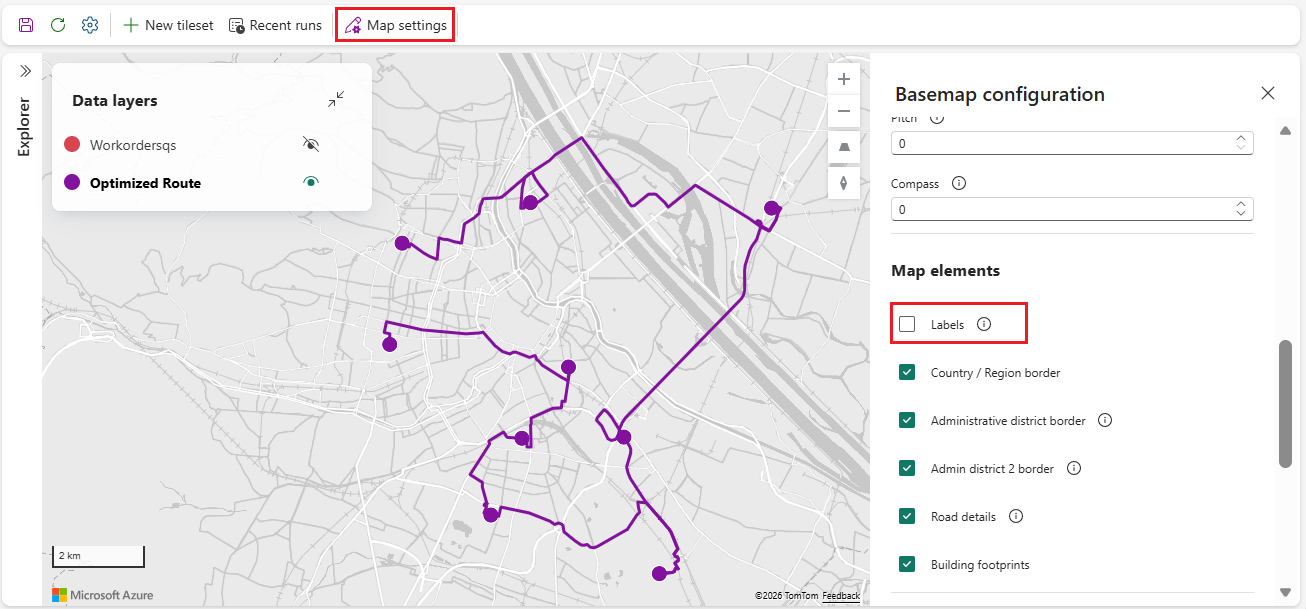
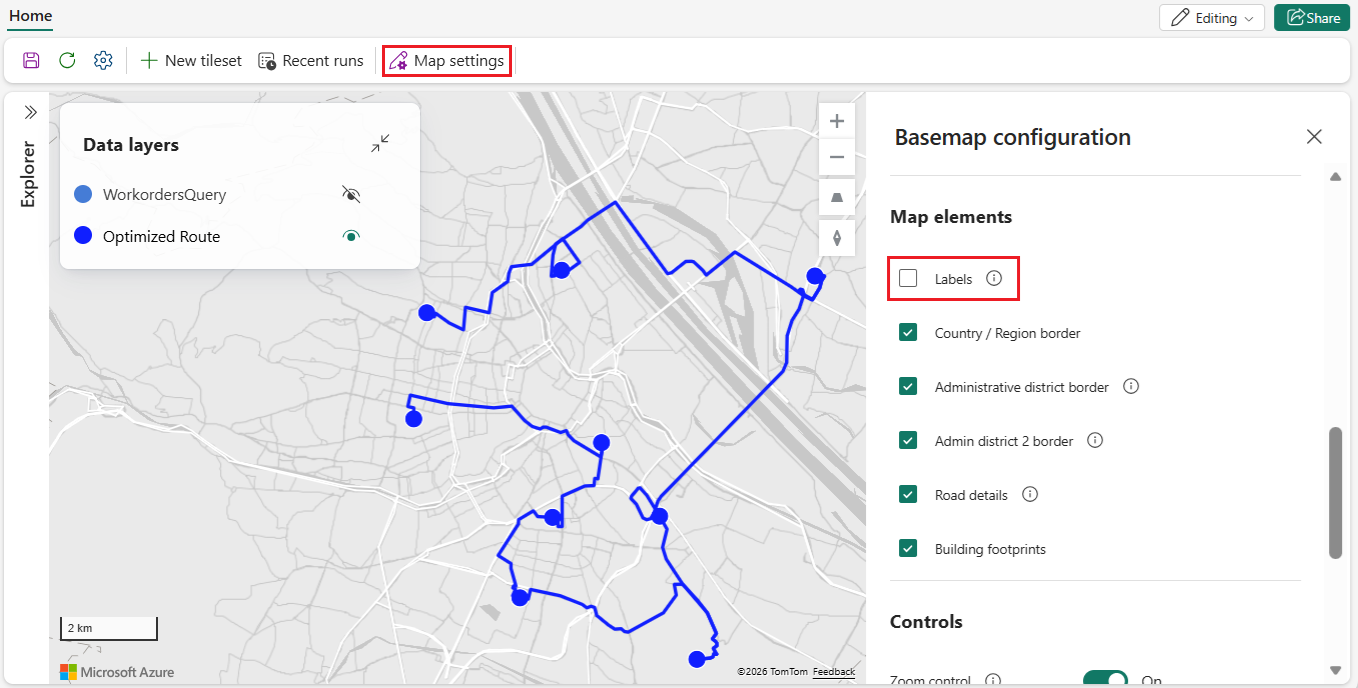
Updated naming convention and most images to reflect new names etc.

diff --git a/docs/real-time-intelligence/map/tutorial-real-time-work-order-routing-application.md b/docs/real-time-intelligence/map/tutorial-real-time-work-order-routing-application.md
@@ -118,19 +118,19 @@ By ingesting eventstream data into an eventhouse, you make streaming events avai
 
 1. The **Eventhouse destination configuration** pane appear on the right side of the screen. Fill out the details requested as follows, then select **Save**:
     1. **Data ingestion mode**: Set to **Event processing before ingestion**.
-    1. **Destination name**: Set to **Workorders-Eventhouse**.
+    1. **Destination name**: Set to **WorkordersEventhouse**.
     1. **Workspace**: A dropdown showing the name of your workspace.
-    1. **Eventhouse**: Select **Create new** and create an eventhouse named **Workorders-Eventhouse**.
-    1. **KQL Database**: Select **Workorders-DB**.
+    1. **Eventhouse**: Select **Create new** and create an eventhouse named **WorkordersEventhouse**.
+    1. **KQL Database**: Select **WorkordersEventhouse**.
     1. **KQL Destination table**: Select the **Create new** link and create a new table named **Workorders-tbl**.
     1. **Input data format**: Select **Json**.
     1. **Activate ingestion after adding the data source**: check the checkbox.
 
-    :::image type="content" source="media/tutorials/real-time-work-order-routing-application/add-destination-eventhouse.png" alt-text="A screenshot showing the Eventhouse destination configuration pane showing Data ingestion mode with Event processing before ingestion selected, Destination name set to Workorders-Eventhouse, Workspace dropdown showing My workspace, Eventhouse dropdown showing Workorders-Eventhouse with Create new link, KQL database dropdown showing Workorders-DB, KQL Destination table dropdown showing New Workorders-tbl with Create new link, Activate ingestion after adding the data source checkbox checked, and a green Save button at the bottom.":::
+    :::image type="content" source="media/tutorials/real-time-work-order-routing-application/add-destination-eventhouse.png" alt-text="A screenshot showing the Eventhouse destination configuration pane showing Data ingestion mode with Event processing before ingestion selected, Destination name set to WorkordersEventhouse, Workspace dropdown showing My workspace, Eventhouse dropdown showing WorkordersEventhouse with Create new link, KQL database dropdown showing WorkordersEventhouse, KQL Destination table dropdown showing New Workorders-tbl with Create new link, Activate ingestion after adding the data source checkbox checked, and a green Save button at the bottom.":::
 
 1. Once the eventhouse has been added as a destination, select **Publish** to publish your new eventstream.
 
-    :::image type="content" source="media/tutorials/real-time-work-order-routing-application/publish-event-stream.png" lightbox="media/tutorials/real-time-work-order-routing-application/publish-event-stream.png" alt-text="A screenshot showing the Eventstream designer showing a flow with CustomEndpoint-Workorders source connected to a Workorders-stream node, which connects to Workorders-Eventhouse destination. The Publish button is highlighted in the top right corner of the toolbar. An Edit mode banner indicates changes go live once published.":::
+    :::image type="content" source="media/tutorials/real-time-work-order-routing-application/publish-event-stream.png" lightbox="media/tutorials/real-time-work-order-routing-application/publish-event-stream.png" alt-text="A screenshot showing the Eventstream designer showing a flow with CustomEndpoint-Workorders source connected to a Workorders-stream node, which connects to WorkordersEventhouse destination. The Publish button is highlighted in the top right corner of the toolbar. An Edit mode banner indicates changes go live once published.":::
 
 ### Get required SAS key authentication keys
 
@@ -217,22 +217,19 @@ Create a notebook with code to import the work order location file from your lak
 1. Add the values for the variables **CONNECTION_STR** and **EVENT_HUB_NAME** obtained in the previous section titled [Get required SAS key authentication keys](#get-required-sas-key-authentication-keys).
 1. Run the notebook code. This will create the *Workorders* table in the KQL database in the *WorkordersEventhouse* eventhouse.
 
-:::image type="content" source="media/tutorials/real-time-work-order-routing-application/work-order-table.png" alt-text="A screenshot of the Microsoft Fabric Eventhouse interface displaying the Workorders table with a Data preview tab selected. The left navigation panel shows the KQL databases tree with WorkordersEventhouse expanded, containing Tables with the Workorders table selected. The data preview shows nine rows of work order records with columns including WorkorderID, Latitude, Longitude, EventProcessedUtc timestamps, PartitionId, EventEnqueuedUtc timestamps, and IngestionTime values.":::
+:::image type="content" source="media/tutorials/real-time-work-order-routing-application/work-order-table.png" lightbox="media/tutorials/real-time-work-order-routing-application/work-order-table.png" alt-text="A screenshot of the Microsoft Fabric Eventhouse interface displaying the Workorders table with a Data preview tab selected. The left navigation panel shows the KQL databases tree with WorkordersEventhouse expanded, containing Tables with the Workorders table selected. The data preview shows nine rows of work order records with columns including WorkorderID, Latitude, Longitude, EventProcessedUtc timestamps, PartitionId, EventEnqueuedUtc timestamps, and IngestionTime values.":::
 
 ## Create a KQL queryset and add it as a map layer
 
-In this section, you create a KQL queryset that retrieves current work order location data from your eventhouse, then uses that queryset as a data source for a Fabric Maps map. The queryset enables the map to display active work orders as a layer, providing a visual view of jobs that need to be planned and assigned to field crews.
+In this section, you create a KQL queryset that retrieves current work order location data from the *Workorders* table in your eventhouse, then uses that queryset as a data source for a Fabric Maps map. The queryset enables the map to display active work orders as a layer, providing a visual view of jobs that need to be planned and assigned to field crews.
 
 ### Create a KQL queryset
 
 From your eventhouse (KQL database):
 
-1. Select the KQL database **Workorders-DB**.
-1. Select **KQL queryset** from the menu bar.
-1. Name the queryset **Workorder-QS** then select **Create**.
-
-    :::image type="content" source="media/tutorials/real-time-work-order-routing-application/new-kql-queryset.png" alt-text="A screenshot of the New KQL Queryset dialog box in Microsoft Fabric with a Name field containing Workorders-QS, a Location dropdown set to My workspace with a folder icon, and Create and Cancel buttons at the bottom right with the Create button highlighted by a red border indicating it should be selected.  In the background, the Workorders-DB database is visible in the left navigation panel under KQL databases, and the KQL Queryset button is highlighted in the top menu bar.":::
-
+1. Select **WorkordersEventhouse_queryset** from within the KQL database.
+1. Select **+** from the queries menu bar to create a new query.
+1. When the new query is created, it is automatically named *WorkordersEventhouse*, select the pencil icon to edit the name, and rename it to **WorkordersQuery**.
 1. Paste the following KQL query into the editor.
 
     ```
@@ -240,11 +237,11 @@ From your eventhouse (KQL database):
     | project Latitude, Longitude, WorkorderID 
     ```
 
-1. Select the *pencil edit icon* in the tab titled **Tab** and rename it to **Workorders-QS**.
-1. Select **Run** to verify that the query returns the work order data with location fields.
-1. Select the **Save** button in the upper left corner to save the queryset.
+1. Select the *pencil edit icon* in the tab titled **Tab** and rename it to **WorkordersQuery**.
 
-:::image type="content" source="media/tutorials/real-time-work-order-routing-application/save-kql-queryset.png" alt-text="A screenshot of the Microsoft Fabric KQL queryset editor showing the Home and Help menu tabs at the top. A red rectangle highlights the Save button in the upper left corner next to the Add data source and Copilot buttons. The Workorders-QS tab is visible with a pencil edit icon, which is also highlighted with a red rectangle. The Explorer pane on the left displays a Search field and shows Workorders-DB with a Workorders table underneath. The query editor panel shows three lines of KQL code with line 1 containing Workorders and line 2 containing project Latitude comma Longitude comma WorkorderID. The results table displays columns for Latitude Longitude and WorkorderID with sample data including coordinates.":::
+:::image type="content" source="media/tutorials/real-time-work-order-routing-application/new-kql-queryset.png" alt-text="A screenshot of the Microsoft Fabric KQL queryset interface showing the WorkordersEventhouse database selected in the left Explorer pane under KQL databases with WorkordersEventhouse_queryset expanded to reveal the Workorders table. The main query editor displays a new tab highlighted with a red rectangle containing a query. A second red rectangle highlights the WorkordersEventhouse_queryset item in the left navigation panel. The query window shows two lines of KQL code with Workorders on line 1 and project Latitude comma Longitude comma WorkorderID on line 2.":::
+
+1. Select **Run** to verify that the query returns the work order data with location fields.
 
 This queryset functions as a reusable data source for a Fabric Maps map data layer, which is demonstrated in the next section.
 
@@ -256,7 +253,7 @@ In this section, you create a Fabric Maps map and use the previously created KQL
 
 1. From your workspace, select **New item**.
 1. In the **New item** panel, enter **map** into the search field, and select **Map (preview)**.
-1. In the **New Map** dialog, enter **Work Orders** in the **Name** field and select **Create**.
+1. In the **New Map** dialog, enter **WorkordersMap** in the **Name** field and select **Create**.
 
 ### Add eventhouse to map
 
@@ -264,39 +261,39 @@ In this section, you create a Fabric Maps map and use the previously created KQL
 
     :::image type="content" source="media/tutorials/real-time-work-order-routing-application/add-eventhouse-map.png" alt-text="A screenshot showing the Microsoft Fabric Maps interface with the Explorer pane on the left with Lakehouse and Eventhouse tabs. The Eventhouse tab is selected and highlighted with a red box. Below it, the Add data items button is also highlighted with a red box. The main area displays the default world map in the map area.":::
 
-1. From the **OneLake** catalog, select the eventhouse **Workorders-Eventhouse** that you created previously, then select **Connect**.
+1. From the **OneLake** catalog, select the eventhouse **WorkordersEventhouse** that you created previously, then select **Connect**.
 
 > [!TIP]
 > If you get an error such as *The KQL database has a protected label that restricts access. Please contact your database owner for assistance.* Check the sensitivity label on your KQL database, as it may be restricting access. For more information, see [Apply sensitivity labels to Fabric items](/fabric/fundamentals/apply-sensitivity-labels).
 
 ### Show queryset on map
 
-1. In the **Explorer** pane in your new map, select the eventhouse **Workorders-Eventhouse** that you added in the previous step.
-1. Navigate to the KQL query *Workorders-QS*, and select the ellipse (...) to show the popup menu.
+1. In the **Explorer** pane in your new map, select the eventhouse **WorkordersEventhouse** that you added in the previous step.
+1. Navigate to the KQL query *WorkordersQuery*, and select the ellipse (...) to show the popup menu.
 1. Select **Show on map** from the popup menu.
 
-    :::image type="content" source="media/tutorials/real-time-work-order-routing-application/show-on-map.png" alt-text="A screenshot of the Microsoft Fabric Maps Explorer panel displaying a hierarchical tree structure with KQL database section expanded. The tree shows Workorders-DB containing Workorders-Event table and Workorders-QS queryset. An ellipsis menu is open next to Workorders-QS revealing options including Show on map highlighted with a red rectangle border.":::
+    :::image type="content" source="media/tutorials/real-time-work-order-routing-application/show-on-map.png" alt-text="A screenshot of the Microsoft Fabric Maps Explorer panel displaying a hierarchical tree structure with KQL database section expanded. The tree shows WorkordersEventhouse containing Workorders-Event table and WorkordersQuery queryset. An ellipsis menu is open next to WorkordersQuery revealing options including Show on map highlighted with a red rectangle border.":::
 
 1. The **View Eventhouse data on map** dialog appears with **Preview data** selected. No changes are required. Ensure it's correct, then select **Next**
 
-    :::image type="content" source="media/tutorials/real-time-work-order-routing-application/preview-data.png" alt-text="A screenshot of the View Eventhouse data on map dialog in Microsoft Fabric showing three steps on the left: Preview data with a green checkmark, Set geometry, and data refresh interval, and Review and add to map. The main panel displays Visualize spatial data over time on a map with a dropdown to Select a KQL query to visualize set to Workorders-QS. Below is a Query result preview table with columns for Latitude, Longitude, and WorkorderID showing nine work order records with coordinates in the Vienna Austria area. Back and Next buttons appear at the bottom right.":::
+    :::image type="content" source="media/tutorials/real-time-work-order-routing-application/preview-data.png" alt-text="A screenshot of the View Eventhouse data on map dialog in Microsoft Fabric showing three steps on the left: Preview data with a green checkmark, Set geometry, and data refresh interval, and Review and add to map. The main panel displays Visualize spatial data over time on a map with a dropdown to Select a KQL query to visualize set to WorkordersQuery. Below is a Query result preview table with columns for Latitude, Longitude, and WorkorderID showing nine work order records with coordinates in the Vienna Austria area. Back and Next buttons appear at the bottom right.":::
 
 1. In the **Set geometry and data refresh interval** step, set the fields as follows, then select **Next**:
-    * **Data layer Name**: Workorders-QS
+    * **Data layer Name**: WorkordersQuery
     * **Geometry column location**: Latitude and longitude data locate on separate columns
     * **Latitude column**: Latitude
     * **Longitude column**: Longitude
     * **Data refresh interval**: 5 minutes
 
-        :::image type="content" source="media/tutorials/real-time-work-order-routing-application/set-geometry.png" alt-text="A screenshot of the Microsoft Fabric dialog titled View Eventhouse data on map showing the Set geometry and data refresh interval configuration step. A left sidebar displays three workflow steps with checkmarks indicating Preview data is completed and Set geometry and data refresh interval is currently active. The main panel contains a Data layer section with a Name field containing Workorders-QS, followed by a Geometry data column section with three dropdowns: Geometry column location set to Latitude and longitude data locate on separate columns, Latitude column set to Latitude, and Longitude column set to Longitude. Below is a Data refresh section with a Data refresh interval dropdown set to 5 minutes. Back and Next buttons appear at the bottom right corner.":::
+        :::image type="content" source="media/tutorials/real-time-work-order-routing-application/set-geometry.png" alt-text="A screenshot of the Microsoft Fabric dialog titled View Eventhouse data on map showing the Set geometry and data refresh interval configuration step. A left sidebar displays three workflow steps with checkmarks indicating Preview data is completed and Set geometry and data refresh interval is currently active. The main panel contains a Data layer section with a Name field containing WorkordersQuery, followed by a Geometry data column section with three dropdowns: Geometry column location set to Latitude and longitude data locate on separate columns, Latitude column set to Latitude, and Longitude column set to Longitude. Below is a Data refresh section with a Data refresh interval dropdown set to 5 minutes. Back and Next buttons appear at the bottom right corner.":::
 
 1. In the **Review and add to map** step, review settings and select **Add to map**.
 
-    :::image type="content" source="media/tutorials/real-time-work-order-routing-application/review-add-to-map.png" alt-text="A screenshot of the Microsoft Fabric View Eventhouse data on map dialog displaying the Review and add to map step. The left sidebar shows three workflow steps with green checkmarks next to Preview data and Set geometry and data refresh interval, and a blue dot indicating Review and add to map is currently active. The main panel displays the heading View Eventhouse data on map with subtitle Visualize spatial data over time on a map. The Data source section shows KQL database set to Workorders-DB, KQL queryset set to Workorders-Eventhouse_queryset, and Queryset tab set to Workorders-QS. The Data layer section shows Name field with a red asterisk set to Workorders-QS. The Geometry data column section displays Geometry column location with red asterisk set to Latitude and longitude data locate on separate columns, Latitude column with red asterisk set to Latitude, and Longitude column with red asterisk set to Longitude. The Data refresh section shows Data refresh interval with red asterisk set to 5 minutes. Back and Add to map buttons appear at the bottom right corner.":::
+    :::image type="content" source="media/tutorials/real-time-work-order-routing-application/review-add-to-map.png" alt-text="A screenshot of the Microsoft Fabric View Eventhouse data on map dialog displaying the Review and add to map step. The left sidebar shows three workflow steps with green checkmarks next to Preview data and Set geometry and data refresh interval, and a blue dot indicating Review and add to map is currently active. The main panel displays the heading View Eventhouse data on map with subtitle Visualize spatial data over time on a map. The Data source section shows KQL database set to WorkordersEventhouse, KQL queryset set to WorkordersEventhouse_queryset, and Queryset tab set to WorkordersQuery. The Data layer section shows Name field with a red asterisk set to WorkordersQuery. The Geometry data column section displays Geometry column location with red asterisk set to Latitude and longitude data locate on separate columns, Latitude column with red asterisk set to Latitude, and Longitude column with red asterisk set to Longitude. The Data refresh section shows Data refresh interval with red asterisk set to 5 minutes. Back and Add to map buttons appear at the bottom right corner.":::
 
 The queryset results are now displayed in the updated map.
 
-:::image type="content" source="media/tutorials/real-time-work-order-routing-application/work-order-query-string-layer.png" lightbox="media/tutorials/real-time-work-order-routing-application/work-order-query-string-layer.png" alt-text="A screenshot showing Microsoft Fabric Maps interface displaying a map of Vienna, Austria with red circular markers indicating work order locations. The Explorer pane on the left shows Lakehouse and Eventhouse tabs with the Eventhouse tab selected, revealing a KQL database tree containing Workorders-Eventhouse and Workorders-QS entries. The Data layers panel in the upper left of the map shows Workorders-QS layer with a visibility toggle and options menu.":::
+:::image type="content" source="media/tutorials/real-time-work-order-routing-application/work-order-query-string-layer.png" lightbox="media/tutorials/real-time-work-order-routing-application/work-order-query-string-layer.png" alt-text="A screenshot showing Microsoft Fabric Maps interface displaying a map of Vienna, Austria with red circular markers indicating work order locations. The Explorer pane on the left shows Lakehouse and Eventhouse tabs with the Eventhouse tab selected, revealing a KQL database tree containing WorkordersEventhouse and WorkordersQuery entries. The Data layers panel in the upper left of the map shows WorkordersQuery layer with a visibility toggle and options menu.":::
 
 ## Generate an optimized multi‑stop route with the Azure Maps Route Directions API
 
@@ -307,15 +304,15 @@ To complete this section, you need an Azure account with an Azure Maps account a
 ### Create a notebook in your Fabric workspace that retrieves the optimal route
 
 1. From within your workspace, open the eventhouse you created previously.
-1. In the left navigation panel under **KQL databases**, select **Workorders-eventhouse**
+1. In the left navigation panel under **KQL databases**, select **WorkordersEventhouse**
 1. The top menu bar should now display an option for **Notebook**. Select it to create a new notebook.
 
-    :::image type="content" source="media/tutorials/real-time-work-order-routing-application/create-new-notebook.png"  lightbox="media/tutorials/real-time-work-order-routing-application/create-new-notebook.png" alt-text="A screenshot of  the Microsoft Fabric Eventhouse interface showing the Workorders-DB database selected in the left navigation panel under KQL databases. The top menu bar displays several options including Notebook, which is highlighted with a red box indicating that is the item to select. The main panel shows the Data Activity Tracker with ingestion and query statistics.":::
+    :::image type="content" source="media/tutorials/real-time-work-order-routing-application/create-new-notebook.png"  lightbox="media/tutorials/real-time-work-order-routing-application/create-new-notebook.png" alt-text="A screenshot of  the Microsoft Fabric Eventhouse interface showing the WorkordersEventhouse database selected in the left navigation panel under KQL databases. The top menu bar displays several options including Notebook, which is highlighted with a red box indicating that is the item to select. The main panel shows the Data Activity Tracker with ingestion and query statistics.":::
 
 1. In the new notebook, save the values for the **kustoQuery**, **kustoUri** and **database** variables. You use these values in the new notebook code you create in step 6.
 1. Connect your notebook to your lakehouse by selecting **From OneLake catalog** from the **Add data items** dropdown list.
 
-    :::image type="content" source="media/tutorials/real-time-work-order-routing-application/new-notebook-vars.png" lightbox="media/tutorials/real-time-work-order-routing-application/new-notebook-vars.png" alt-text="A screenshot of a Microsoft Fabric notebook interface showing a code cell with PySpark Python code. The left panel displays No data sources added with an Add data items button highlighted by a red box. The main code area shows an example query for reading data from Kusto with variables kustoQuery set to Workorders, kustoUri containing a Fabric Microsoft URL, and database set to Workorders-DB, all highlighted with red boxes to indicate values that need to be copied and used in the notebook code provided in this tutorial.":::
+    :::image type="content" source="media/tutorials/real-time-work-order-routing-application/new-notebook-vars.png" lightbox="media/tutorials/real-time-work-order-routing-application/new-notebook-vars.png" alt-text="A screenshot of a Microsoft Fabric notebook interface showing a code cell with PySpark Python code. The left panel displays No data sources added with an Add data items button highlighted by a red box. The main code area shows an example query for reading data from Kusto with variables kustoQuery set to Workorders, kustoUri containing a Fabric Microsoft URL, and database set to WorkordersEventhouse, all highlighted with red boxes to indicate values that need to be copied and used in the notebook code provided in this tutorial.":::
 
 1. Once your new notebook is created and connected to your lakehouse, enter the following code into the second cell of your notebook, replacing the default code, then add the variable values saved in the previous step:
 
@@ -334,7 +331,7 @@ To complete this section, you need an Azure account with an Azure Maps account a
     
     kustoQuery = "['Workorders']" # Your Kusto query name
     kustoUri = "" # Your Kusto URI
-    database = "Workorders-DB" # Your KQL database name
+    database = "WorkordersEventhouse" # Your KQL database name
     
     # The access credentials.
     accessToken = mssparkutils.credentials.getToken(kustoUri)
@@ -347,7 +344,7 @@ To complete this section, you need an Azure account with an Azure Maps account a
     
     # Write transformed response to a new file so the raw output is preserved
     OUTPUT_GEOJSON_PATH_TRANSFORMED = (
-        'Files/optimized_route.geojson' # GeoJSON output file 
+        'Files/OptimizedRoute.geojson' # GeoJSON output file 
     )
     
     # ---- Read Stores from KQL database table ----
@@ -420,13 +417,26 @@ To complete this section, you need an Azure account with an Azure Maps account a
 
 1. Enter Your Azure Maps subscription key in the notebook code for the **AZMAPS_SUBSCRIPTION_KEY** variable by replacing "*\<Your Azure Maps subscription key\>*" with Your Azure Maps subscription key.
 1. Select the **Save as** button in the menu and save the notebook as **OptimizeRoute**.
-1. Run the notebook code. This creates a new file named **optimized_route.geojson** in the **File** directory of your lakehouse.
+1. Run the notebook code. This creates a new file named **OptimizedRoute.geojson** in the **File** directory of your lakehouse.
 
-    :::image type="content" source="media/tutorials/real-time-work-order-routing-application/optimized-route-file.png" lightbox="media/tutorials/real-time-work-order-routing-application/optimized-route-file.png" alt-text="A screenshot of the Microsoft Fabric interface showing a notebook code cell on the right side with Python code that retrieves route data and writes a GeoJSON file. The Explorer pane on the left displays OneLake with WorkorderLocation expanded showing Tables and Files folders. The Files folder contains WorkorderLocations.csv and  optimized_route.geojson highlighted with a red box indicating the newly created output file. The center Files panel shows both files with optimized_route.geojson also highlighted. The notebook output at the bottom displays a success message stating Transformed Directions GeoJSON waypoints carry properties.optimizedIndex written to Files/optimized_route.geojson with execution time of 5 sec 750 ms.":::
+    :::image type="content" source="media/tutorials/real-time-work-order-routing-application/optimized-route-file.png" lightbox="media/tutorials/real-time-work-order-routing-application/optimized-route-file.png" alt-text="A screenshot of the Microsoft Fabric interface showing a notebook code cell on the right side with Python code that retrieves route data and writes a GeoJSON file. The Explorer pane on the left displays OneLake with WorkorderLocation expanded showing Tables and Files folders. The Files folder contains WorkorderLocations.csv and  OptimizedRoute.geojson highlighted with a red box indicating the newly created output file. The center Files panel shows both files with OptimizedRoute.geojson also highlighted. The notebook output at the bottom displays a success message stating Transformed Directions GeoJSON waypoints carry properties.":::
 
-Once completed, a new map layer appears in your Fabric Maps map created in the previous section.
+#### Add lakehouse to map
 
-:::image type="content" source="media/tutorials/real-time-work-order-routing-application/optimized-route-no-styles.png" alt-text="A screenshot of the Microsoft Fabric Maps interface displaying a street map of Vienna Austria with purple route lines connecting multiple waypoints marked by circles. The Explorer pane on the left shows Lakehouse and Eventhouse tabs with the Lakehouse tab expanded, revealing WorkorderLocations containing Tables and Files folders with WorkorderLocations.csv and optimized_route.geojson files. The Data layers panel in the upper left corner of the map shows two layers: Workorders-QS with red circular markers and optimized_route.geojson displaying the connected route path. The map background shows Vienna neighborhoods including Favoriten, Simmering, and Margareten with road networks visible.":::
+1. In the **Explorer** pane, select **Lakehouse** then the **Add data items** button.
+1. From the *OneLake catalog**, select the lakehouse **WorkorderLocationsLakehouse** that you created previously, then select **Connect**.
+
+#### Show the optimized route on the map
+
+1. In the **Explorer** pane in your new map, select the lakehouse **WorkorderLocationsLakehouse** that you added in the previous step.
+1. Navigate to the **OptimizedRoute.geojson** in the **File** directory of your lakehouse and select the ellipse (...) to show the popup menu.
+1. Select **Show on map** from the popup menu.
+
+:::image type="content" source="media/tutorials/real-time-work-order-routing-application/show-optimized-route-on-map.png" lightbox="media/tutorials/real-time-work-order-routing-application/show-optimized-route-on-map.png" alt-text="A screenshot of the Microsoft Fabric Maps Explorer panel showing the Lakehouse tab selected with WorkorderLocationsLakehouse expanded. The Files folder contains OptimizedRoute.geojson and WorkorderLocations.csv files. A context menu is open next to OptimizedRoute.geojson displaying options including Show on map highlighted with a red rectangle. The Data layers panel shows WorkordersQuery as an existing layer with a visibility toggle.":::
+
+Once completed, the new map layer appears in your Fabric Maps map created in the previous section.
+
+:::image type="content" source="media/tutorials/real-time-work-order-routing-application/optimized-route-no-styles.png" alt-text="A screenshot of the Microsoft Fabric Maps interface displaying a street map of Vienna Austria with purple route lines connecting multiple waypoints marked by circles. The Explorer pane on the left shows Lakehouse and Eventhouse tabs with the Lakehouse tab expanded, revealing WorkorderLocations containing Tables and Files folders with WorkorderLocations.csv and OptimizedRoute.geojson files. The Data layers panel in the upper left corner of the map shows two layers: WorkordersQuery with red circular markers and OptimizedRoute.geojson displaying the connected route path. The map background shows Vienna neighborhoods including Favoriten, Simmering, and Margareten with road networks visible.":::
 
 ### Map layer settings
 
@@ -436,7 +446,7 @@ Fabric Maps provides a range of layer settings that let you control how data is 
 
 1. Select the new layers options menu and select **Rename**.
 
-    :::image type="content" source="media/tutorials/real-time-work-order-routing-application/rename-layer.png" alt-text="A screenshot of the Microsoft Fabric Maps Data layers panel showing two layers Workorders-QS and optimized_route.geojson. The optimized_route.geojson layer has its options menu expanded with a red rectangle highlighting the Rename option. Other menu options visible include Zoom to fit, Duplicate, and Delete. The panel appears over a street map background showing the Vienna Austria area.":::
+    :::image type="content" source="media/tutorials/real-time-work-order-routing-application/rename-layer.png" alt-text="A screenshot of the Microsoft Fabric Maps Data layers panel showing two layers WorkordersQuery and OptimizedRoute.geojson. The OptimizedRoute.geojson layer has its options menu expanded with a red rectangle highlighting the Rename option. Other menu options visible include Zoom to fit, Duplicate, and Delete. The panel appears over a street map background showing the Vienna Austria area.":::
 
 1. In the **Layer name** field, enter **Optimized Route**, then select **Rename**.
 
@@ -458,7 +468,7 @@ To turn off basemap labels:
 1. Select **Map settings** from the menu bar.
 1. Locate the **Labels** checkbox, and unchecked it.
 
-    :::image type="content" source="media/tutorials/real-time-work-order-routing-application/map-settings-labels.png" lightbox="media/tutorials/real-time-work-order-routing-application/map-settings-labels.png" alt-text="A screenshot showing the Microsoft Fabric Maps interface displaying a street map of Vienna Austria with purple route lines connecting multiple waypoints. The left side shows the Explorer pane with Data layers panel listing Workorders-QS and Optimized Route layers. The top toolbar highlights the Map settings button highlighted with a red rectangle. The right side displays the Basemap settings panel with the Labels checkbox unchecked and highlighted with a red rectangle.":::
+    :::image type="content" source="media/tutorials/real-time-work-order-routing-application/map-settings-labels.png" lightbox="media/tutorials/real-time-work-order-routing-application/map-settings-labels.png" alt-text="A screenshot showing the Microsoft Fabric Maps interface displaying a street map of Vienna Austria with purple route lines connecting multiple waypoints. The left side shows the Explorer pane with Data layers panel listing WorkordersQuery and Optimized Route layers. The top toolbar highlights the Map settings button highlighted with a red rectangle. The right side displays the Basemap settings panel with the Labels checkbox unchecked and highlighted with a red rectangle.":::
 
 #### Add labels to the layer
 
@@ -472,7 +482,6 @@ Layer labels are data‑driven annotations that come from one or more fields in 
     * **Font weight**: Medium
     * **Text color**: white
     * **Text size** slider set to 20
-    * **Text stroke width** slider set to 1.8
-    * **Data labels overlap**: toggled On
+    * **Text stroke width** slider set to 2
 
-    :::image type="content" source="media/tutorials/real-time-work-order-routing-application/data-label-settings.png" lightbox="media/tutorials/real-time-work-order-routing-application/data-label-settings.png" alt-text="A screenshot of Microsoft Fabric Maps showing the Data labels settings panel expanded on the right side with Enable data labels toggled On, Data labels dropdown set to optimizedIndex, Font weight set to Medium, Text color showing a white color picker, Text size slider set to 20, Text stroke color showing black, Text stroke width slider set to 1.8, and Label position set to Bottom center. The main map area displays a street map of Vienna Austria with purple route lines connecting numbered waypoints labeled 1 through 9 indicating the optimized visit order. The Data layers panel on the left shows Workorders-QS with visibility hidden and Optimized Route as the active layer.":::
+    :::image type="content" source="media/tutorials/real-time-work-order-routing-application/data-label-settings.png" lightbox="media/tutorials/real-time-work-order-routing-application/data-label-settings.png" alt-text="A screenshot of Microsoft Fabric Maps showing the Data labels settings panel expanded on the right side with Enable data labels toggled On, Data labels dropdown set to optimizedIndex, Text color showing a white color picker, Text size slider set to 20, Text stroke color showing black, and Text stroke width slider set to 2. The main map area displays a street map of Vienna Austria with purple route lines connecting numbered waypoints labeled 1 through 9 indicating the optimized visit order. The Data layers panel on the left shows WorkordersQuery with visibility hidden and Optimized Route as the active layer.":::
